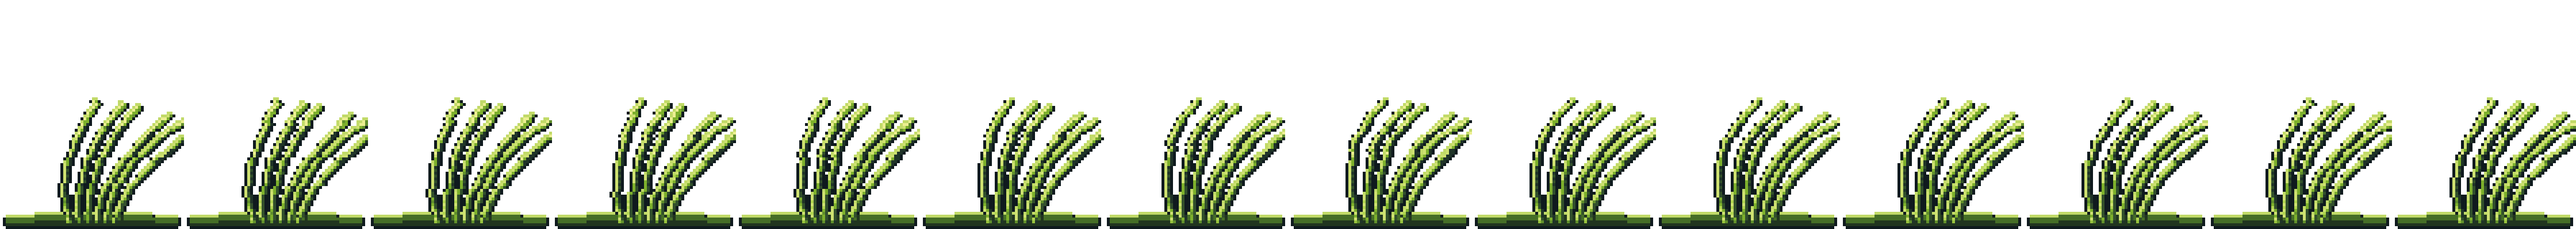
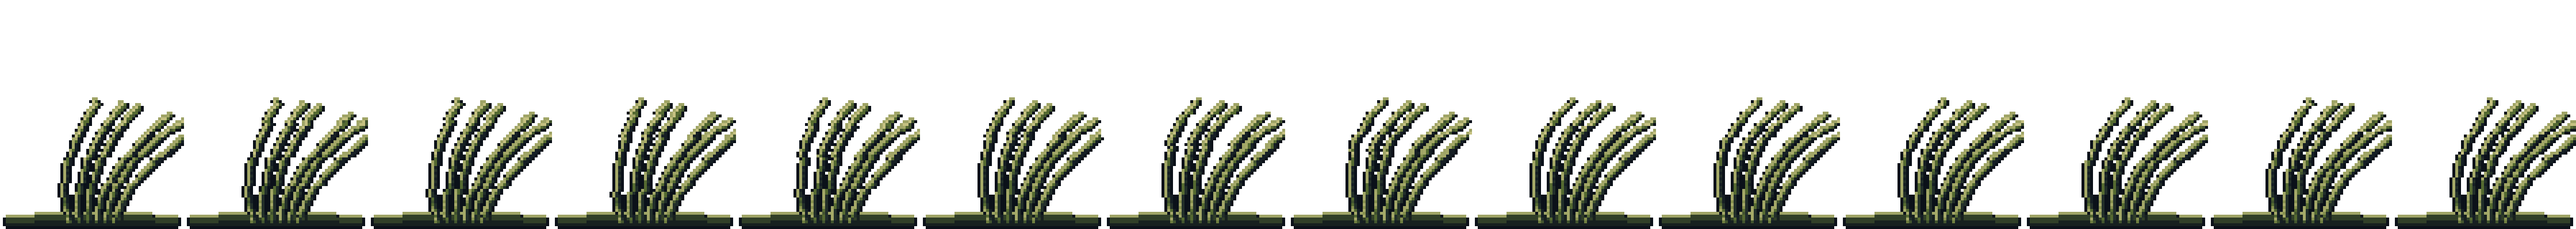
Make the reef cohere: surface attachment, colonies, depth slices
The environment read as clutter that didn't mesh. Four structural causes,
all now fixed.

Placement was an independent coin flip per column, which is a
statistically EVEN sprinkle — no clumps, no bare ground — and the eye
reads even distribution as clutter. Growth now forms colonies with bare
substrate between them, sized on a curve so most are small and a few are
large. A flat size roll made one grass bed swallow the frame.

Growth attached only to floors. Every solid cell with an exposed side is
now a face with an outward normal, and sprites are quarter-turned onto it
— coral out of a wall sideways, turf under an overhang. Quarter turns of
a pixel sprite are exact, no resampling, so the grid survives; that is
why normals snap to the four axes. Families declare which surfaces they
actually colonise, because a branching colony turned ninety degrees looks
like a fallen log, while fans and turf read correctly.

Everything rendered at one contrast, so the scene was a sticker collage.
The gameplay layer now has three depth slices: BACK loses contrast to the
water, MID is the subject, NEAR goes darker and unlit. Fish take slices
too — they were the loudest thing in frame — and big solitary hunters
mostly cruise the far water.

Species were picked independently at every position, interleaving every
hue into confetti. Flora is keyed to two muted families, tan structure
and olive growth, with rose fans as the only accent; salvage joins the
[…]

Changed region(s): [[0.0, 0.45, 1.0, 0.99]]

diff --git a/scuba-game/reef/index.html b/scuba-game/reef/index.html
@@ -175,7 +175,7 @@ const SPAWN_Y = spawnAvg*TILE - 3.2*PX_PER_M;
 let A;
 try{
   A = await loadAll('./assets', ['tile_rock','tile_sand',
-    'flora_kelp','flora_staghorn','flora_fan','flora_grass',
+    'flora_staghorn','flora_staghorn_lg','flora_soft','flora_kelp','flora_grass','flora_grass_lg','flora_fan',
     'fish_chromis','fish_anthias','fish_yellowtang','fish_raccoon','fish_manini',
     'fish_taape','fish_akule','fish_uhu','fish_omilu','fish_puhi','fish_whitetip','fish_ulua',
     'prop_crate','prop_drum','prop_hull','prop_debris',
@@ -232,58 +232,141 @@ const LAYERS = [
 ];
 const mixc = (a,b,t) => [a[0]+(b[0]-a[0])*t, a[1]+(b[1]-a[1])*t, a[2]+(b[2]-a[2])*t];
 
-// ---------------------------------------------------------------- scatter
-const FLORA = [
-  {a:A.flora_kelp,     w:0.30, minD:4,  maxD:24},
-  {a:A.flora_staghorn, w:0.28, minD:6,  maxD:26},
-  {a:A.flora_fan,      w:0.17, minD:8,  maxD:28},
-  {a:A.flora_grass,    w:0.25, minD:3,  maxD:25}
-];
-const BG_FLORA = FLORA.filter(f => f.a === A.flora_grass || f.a === A.flora_fan);
-const plants = [];
-for(let x=2;x<WT-2;x++){
-  if(R() > 0.44) continue;
-  const topArt = surfaceY[x]*TILE;
-  const d = depthAt(topArt);
-  const pool = FLORA.filter(f => d >= f.minD && d <= f.maxD);
-  if(!pool.length) continue;
-  let r = R()*pool.reduce((s,f)=>s+f.w,0), pick = pool[0];
-  for(const f of pool){ r -= f.w; if(r<=0){ pick=f; break; } }
-  plants.push({
-    a: pick.a, x: x*TILE + TILE/2 + (R()-0.5)*TILE,
-    y: topArt + 1,
-    phase: R()*Math.PI*2, rate: 0.55 + R()*0.5, flip: R()<0.5
-  });
+// ---------------------------------------------------------------- surfaces
+// Growth attaches to a SURFACE, not to a column of the heightmap. Every solid cell with an
+// exposed side is a face with an outward normal; sprites are quarter-turned onto it so
+// coral grows out of a wall sideways and sponges hang under an overhang. Placing only on
+// floors is what left the terrain reading as bare stepped platforms with a lawn on top.
+const FLOOR=0, WALL=1, CEIL=2;
+const faces = {[FLOOR]:[], [WALL]:[], [CEIL]:[]};
+for(let gy=0; gy<WH; gy++)for(let gx=0; gx<WT; gx++){
+  if(!solid[gy][gx]) continue;
+  const open=(x,y)=> x<0||x>=WT||y<0 ? false : (y>=WH ? false : !solid[y][x]);
+  if(open(gx,gy-1))   faces[FLOOR].push({x:gx*TILE+TILE/2, y:gy*TILE,          rot:0, gx, gy});
+  if(open(gx+1,gy))   faces[WALL ].push({x:(gx+1)*TILE,    y:gy*TILE+TILE/2,   rot:1, gx, gy});
+  if(open(gx,gy+1))   faces[CEIL ].push({x:gx*TILE+TILE/2, y:(gy+1)*TILE,      rot:2, gx, gy});
+  if(open(gx-1,gy))   faces[WALL ].push({x:gx*TILE,        y:gy*TILE+TILE/2,   rot:3, gx, gy});
 }
-plants.sort((p,q)=>p.y-q.y);
+// sort so neighbours in the array are neighbours in space — a colony is then a contiguous run
+faces[FLOOR].sort((a,b)=>a.x-b.x || a.y-b.y);
+faces[CEIL ].sort((a,b)=>a.x-b.x || a.y-b.y);
+faces[WALL ].sort((a,b)=>a.rot-b.rot || a.gx-b.gx || a.gy-b.gy);
 
-// flora on the background reef, and a few near silhouettes in the foreground
+// ---------------------------------------------------------------- scatter
+// Coral grows in COLONIES with bare substrate between them. An independent coin flip per
+// column — which this used to be — gives a statistically EVEN sprinkle: no clumps, no
+// gaps, and the eye reads even distribution as clutter. Patches also group colour into
+// masses instead of interleaving every hue at every position.
+// Families declare which surfaces they actually colonise: turf on the flat, fans and soft
+// coral out of walls, only small growth under overhangs.
+const FAMILIES = [
+  {name:'staghorn', members:[A.flora_staghorn, A.flora_staghorn_lg], w:0.30, on:[FLOOR],            minD:3, maxD:26},
+  {name:'grass',    members:[A.flora_grass, A.flora_grass_lg],       w:0.24, on:[FLOOR],            minD:1, maxD:24},
+  {name:'kelp',     members:[A.flora_kelp],                          w:0.14, on:[FLOOR],            minD:2, maxD:20},
+  {name:'soft',     members:[A.flora_soft],                          w:0.18, on:[FLOOR],            minD:4, maxD:24},
+  {name:'fan',      members:[A.flora_fan],                           w:0.14, on:[WALL,CEIL,FLOOR],  minD:6, maxD:28},
+  {name:'turf',     members:[A.flora_grass],                         w:0.14, on:[WALL,CEIL],        minD:2, maxD:28}
+];
+const pickWeighted = pool => {
+  let r = R()*pool.reduce((s,f)=>s+f.w,0);
+  for(const f of pool){ r -= f.w; if(r<=0) return f; }
+  return pool[pool.length-1];
+};
+
+// Depth slices inside the gameplay layer. Without these everything renders at one contrast
+// and the scene reads as a sticker collage — the "pops too much" problem. BACK sits behind
+// the play plane and loses contrast to the water; NEAR sits in front and goes darker.
+const BACK=0, MID=1, NEAR=2;
+const SLICE_FOG  = [0.46, 0, 0];
+const SLICE_DEPTH= [2,    0, 11];     // NEAR pushed deeper into the grade = darker, unlit
+const pickSlice = () => { const r=R(); return r<0.30 ? BACK : r<0.90 ? MID : NEAR; };
+
+const plants = [];
 {
-  const back = LAYERS[1];
-  for(let x=3;x<WT-3;x++){
-    if(R() > 0.26) continue;
-    const pick = BG_FLORA[(R()*BG_FLORA.length)|0];
-    const wx = x*TILE + TILE/2;
-    back.plants.push({a:pick.a, x:wx, y:back.ridge[Math.min(back.ridge.length-1,Math.floor(wx/RIDGE_STEP))]+1,
-                      phase:R()*Math.PI*2, rate:0.4+R()*0.4, flip:R()<0.5});
+  const colonies = 22;
+  for(let k=0;k<colonies;k++){
+    // most colonies are small; a few are large. A flat size roll made one grass bed
+    // swallow the frame.
+    const n = 2 + Math.round(Math.pow(R(),2.1) * 15);
+    const surf = R()<0.72 ? FLOOR : (R()<0.80 ? WALL : CEIL);
+    const list = faces[surf];
+    if(!list.length) continue;
+    const seed = (R()*list.length)|0;
+    const d = depthAt(list[seed].y);
+    const pool = FAMILIES.filter(f => f.on.includes(surf) && d >= f.minD && d <= f.maxD);
+    if(!pool.length) continue;
+    const fam = pickWeighted(pool);
+    const spread = 1 + Math.round(n*0.9);
+    for(let i=0;i<n;i++){
+      const f = list[Math.max(0, Math.min(list.length-1, seed + Math.round((R()+R()-1)*spread)))];
+      const a = fam.members[(R()*fam.members.length)|0];
+      // along-face jitter, and embedded into the substrate rather than balanced on it
+      const along = (R()-0.5)*TILE*0.9, sink = 2 + R()*3;
+      const dx = f.rot===0 ? along : f.rot===2 ? along : (f.rot===1 ? -sink : sink);
+      const dy = f.rot===1 || f.rot===3 ? along : (f.rot===0 ? sink : -sink);
+      plants.push({a, x:f.x+dx, y:f.y+dy, rot:f.rot, surf,
+                   z: surf===FLOOR ? pickSlice() : (R()<0.4 ? BACK : MID),
+                   phase:R()*Math.PI*2, rate:0.55+R()*0.5, flip:R()<0.5,
+                   shade: surf===FLOOR ? 3.5+R()*4.5 : 0});
+    }
   }
 }
-// Salvage on the bottom — the reason for the dive (GDD §4). Props sit on their `base`
-// anchor like flora, so the same placement rule works for both.
+plants.sort((p,q)=> p.z - q.z || p.y - q.y);
+
+const BG_FLORA = [A.flora_grass, A.flora_fan, A.flora_soft];
+{ // background reef gets its own sparse colonies
+  const back = LAYERS[1];
+  let xt = 2 + R()*6;
+  while(xt < WT-3){
+    xt += 3 + R()*8;
+    if(xt >= WT-3) break;
+    const a = BG_FLORA[(R()*BG_FLORA.length)|0];
+    const radT = 1 + R()*2.5, n = Math.round(2 + radT*2);
+    for(let i=0;i<n;i++){
+      const wx = (xt + ((R()+R()+R())/1.5-1)*radT)*TILE;
+      if(wx < 0 || wx > WT*TILE) continue;
+      back.plants.push({a, x:wx,
+        y: back.ridge[Math.max(0,Math.min(back.ridge.length-1,Math.floor(wx/RIDGE_STEP)))] + 2,
+        phase:R()*Math.PI*2, rate:0.4+R()*0.4, flip:R()<0.5});
+    }
+    xt += radT*1.8;
+  }
+}
+
+// Salvage clusters too — debris fields, not an even sprinkle of crates.
 const PROPS = [A.prop_crate, A.prop_drum, A.prop_hull, A.prop_debris];
 const salvage = [];
-for(let i=0;i<32;i++){
-  const x = 4*TILE + R()*(WT-8)*TILE;
-  salvage.push({a: PROPS[(R()*PROPS.length)|0], x, y: terrainTopArt(x) + 1, flip: R()<0.5});
+for(let k=0;k<7;k++){
+  const list = faces[FLOOR];
+  if(!list.length) break;
+  const seed = (R()*list.length)|0, n = 1 + Math.round(R()*3);
+  for(let i=0;i<n;i++){
+    const f = list[Math.max(0, Math.min(list.length-1, seed + Math.round((R()+R()-1)*4)))];
+    salvage.push({a: PROPS[(R()*PROPS.length)|0], x:f.x+(R()-0.5)*TILE, y:f.y+2+R()*2,
+                  flip: R()<0.5, shade: 4+R()*4});
+  }
 }
 salvage.sort((a,b)=>a.y-b.y);
 
 const fgPlants = [];
-for(let i=0;i<14;i++){
-  const pick = FLORA[(R()*FLORA.length)|0];
+for(let i=0;i<12;i++){
+  const fam = FAMILIES[(R()*FAMILIES.length)|0];
   const fx = R()*WT*TILE;
-  fgPlants.push({a:pick.a, x:fx, y:terrainTopArt(fx)+1,
+  fgPlants.push({a: fam.members[(R()*fam.members.length)|0], x:fx, y:terrainTopArt(fx)+2,
                  phase:R()*Math.PI*2, rate:0.5+R()*0.5, flip:R()<0.5});
+}
+
+// A sprite sitting exactly on the surface line reads as pasted on. An occlusion pool under
+// its base is most of what makes it look like it grew there.
+function contactShade(px, py, halfW, depth, alpha){
+  if(halfW <= 0) return;
+  ctx.save();
+  ctx.globalAlpha = alpha;
+  ctx.fillStyle = css(gradeColor([5,11,17], depth));
+  ctx.beginPath();
+  ctx.ellipse(px, py, halfW*ZOOM, Math.max(1.4, halfW*0.34*ZOOM), 0, 0, Math.PI*2);
+  ctx.fill();
+  ctx.restore();
 }
 
 // ---------------------------------------------------------------- sea life
@@ -313,7 +396,7 @@ for(const a of FISH_ASSETS){
     // Reef fish hold station over the structure. Intersect the species' true depth band
     // with the water actually above this reef; if they don't overlap, this species simply
     // isn't found at this depth and we skip it rather than teleporting it here.
-    const hoverLo = floorArt - 8*PX_PER_M, hoverHi = floorArt - 0.7*PX_PER_M;
+    const hoverLo = floorArt - (3 + R()*9)*PX_PER_M, hoverHi = floorArt - (0.5 + R()*3)*PX_PER_M;
     const lo2 = Math.max(lo, hoverLo, 0.8*PX_PER_M), hi2 = Math.min(hi, hoverHi);
     if(hi2 - lo2 < 8) continue;
     const fy = lo2 + R()*(hi2 - lo2);
@@ -326,10 +409,13 @@ for(const a of FISH_ASSETS){
         ox:(R()-0.5)*(tight?46:90), oy:(R()-0.5)*(tight?26:44),
         ph:R()*Math.PI*2, rate:0.8+R()*0.6});
       shoals.push({a, sp, x:fx, y:fy, dir, speed:base*(tight?0.85:1)+R()*6,
-                   members, wob:tight?2.2:5.0, phase:R()*Math.PI*2});
+                   members, wob:tight?2.2:5.0, phase:R()*Math.PI*2, z:pickSlice()});
     } else {
+      // big solitary hunters mostly cruise the far water — one at full contrast in the
+      // middle of frame is the single loudest thing in the scene
       loners.push({a, sp, x:fx, y:fy, dir, speed:base+R()*8,
-                   ph:R()*Math.PI*2, rate:0.6+R()*0.6, bobA:1.2+R()*2.6, bobR:0.35+R()*0.6});
+                   ph:R()*Math.PI*2, rate:0.6+R()*0.6, bobA:1.2+R()*2.6, bobR:0.35+R()*0.6,
+                   z: sp.cm > 90 ? (R()<0.75 ? BACK : MID) : pickSlice()});
     }
   }
 }
@@ -553,7 +639,8 @@ function frame(ts){
       const my = sh.y + m.oy + Math.cos(acc*m.rate*0.8 + m.ph)*sh.wob*0.7;
       const px = sx(mx), py = sy(my);
       if(px < -140 || px > vw+140 || py < -110 || py > vh+110) continue;
-      sh.a.draw(ctx, depthAt(my), 'swim', Math.floor(acc*11*m.rate + m.ph*3), px, py, ZOOM, {flip});
+      sh.a.draw(ctx, depthAt(my) + SLICE_DEPTH[sh.z], 'swim',
+        Math.floor(acc*11*m.rate + m.ph*3), px, py, ZOOM, {flip, fog:SLICE_FOG[sh.z]});
     }
   }
   for(const f of loners){
@@ -561,7 +648,8 @@ function frame(ts){
     const fy = f.y + Math.sin(acc*f.bobR + f.ph) * f.bobA;
     const px = sx(f.x), py = sy(fy);
     if(px < -180 || px > vw+180 || py < -140 || py > vh+140) continue;
-    f.a.draw(ctx, depthAt(fy), 'swim', Math.floor(acc*10*f.rate + f.ph*3), px, py, ZOOM, {flip: f.dir > 0});
+    f.a.draw(ctx, depthAt(fy) + SLICE_DEPTH[f.z], 'swim',
+      Math.floor(acc*10*f.rate + f.ph*3), px, py, ZOOM, {flip: f.dir > 0, fog:SLICE_FOG[f.z]});
   }
 
   // terrain — only the cells on screen
@@ -573,6 +661,29 @@ function frame(ts){
     set.drawTile(ctx, depthAt(y*TILE), tileIdx[y][x], sx(x*TILE), sy(y*TILE), ZOOM, 0, tileVar[y][x]);
   }
 
+  // --- flora behind the play plane: drawn first and hazed, so the mid plane reads as
+  // the subject instead of everything competing at one contrast ---
+  for(const p of plants){
+    if(p.z !== BACK) continue;
+    const px = sx(p.x), py = sy(p.y);
+    if(px < -140 || px > vw+140 || py < -260 || py > vh+120) continue;
+    p.a.draw(ctx, depthAt(p.y), 'sway', Math.floor(acc*9*p.rate + p.phase*4), px, py, ZOOM,
+             {anchor:'base', flip:p.flip, rot:p.rot, fog:SLICE_FOG[BACK]});
+  }
+
+  // contact occlusion for everything standing on the bottom, in one pass underneath
+  for(const p of salvage){
+    const px = sx(p.x), py = sy(p.y);
+    if(px < -140 || px > vw+140 || py < -80 || py > vh+80) continue;
+    contactShade(px, py, p.shade, depthAt(p.y), 0.5);
+  }
+  for(const p of plants){
+    if(p.z === BACK || !p.shade) continue;
+    const px = sx(p.x), py = sy(p.y);
+    if(px < -140 || px > vw+140 || py < -80 || py > vh+80) continue;
+    contactShade(px, py, p.shade, depthAt(p.y), 0.42);
+  }
+
   // salvage, resting on the bottom
   for(const p of salvage){
     const px = sx(p.x), py = sy(p.y);
@@ -580,12 +691,14 @@ function frame(ts){
     p.a.draw(ctx, depthAt(p.y), 'idle', 0, px, py, ZOOM, {anchor:'base', flip:p.flip});
   }
 
-  // flora, planted on its `base` anchor
+  // flora on the play plane and in front of it
   for(const p of plants){
+    if(p.z === BACK) continue;
     const px = sx(p.x), py = sy(p.y);
-    if(px < -140 || px > vw+140 || py < -260 || py > vh+80) continue;
-    p.a.draw(ctx, depthAt(p.y), 'sway', Math.floor(acc*9*p.rate + p.phase*4), px, py, ZOOM,
-             {anchor:'base', flip:p.flip});
+    if(px < -140 || px > vw+140 || py < -260 || py > vh+120) continue;
+    p.a.draw(ctx, depthAt(p.y) + SLICE_DEPTH[p.z], 'sway',
+             Math.floor(acc*9*p.rate + p.phase*4), px, py, ZOOM,
+             {anchor:'base', flip:p.flip, rot:p.rot});
   }
 
   // silt kicked off the bottom

diff --git a/scuba-game/reef/tideforge.js b/scuba-game/reef/tideforge.js
@@ -75,7 +75,14 @@ class Asset {
    * `anchor` names a manifest anchor ('base' plants flora on the seafloor); default
    * is the sprite's centre.
    */
-  draw(ctx, depth, clipName, frame, cx, cy, zoom, {flip=false, anchor=null, alpha=1, fog=0}={}){
+  /**
+   * `rot` is a quarter-turn count (0-3) applied about the anchor, so a sprite can attach
+   * along any surface normal — coral growing off a left-facing wall, sponges hanging under
+   * an overhang. Quarter turns of a pixel sprite are exact: no resampling, the grid
+   * survives intact. Any other angle would need filtering and would destroy it, which is
+   * why the placement code snaps surface normals to the four axes.
+   */
+  draw(ctx, depth, clipName, frame, cx, cy, zoom, {flip=false, anchor=null, alpha=1, fog=0, rot=0}={}){
     const clip = this.clip(clipName);
     const row  = clip ? clip.row : 0;
     const F    = Math.max(1, this.frameCount(clipName));
@@ -88,6 +95,7 @@ class Asset {
     if(alpha !== 1) ctx.globalAlpha = alpha;
     ctx.imageSmoothingEnabled = false;
     ctx.translate(Math.round(cx), Math.round(cy));
+    if(rot) ctx.rotate((rot & 3) * Math.PI / 2);
     if(flip) ctx.scale(-1,1);
     ctx.drawImage(this.graded(depth, fog),
       col*this.fw, row*this.fh, this.fw, this.fh,

diff --git a/tide-forge/index.html b/tide-forge/index.html
@@ -206,6 +206,12 @@ const BASE_PALETTES=[
   {name:'lime',ramp:['#23380a','#47701a','#7db02c','#a7d94e','#dcf59a']},
   {name:'sand',ramp:['#2b2117','#584533','#93765a','#c0a281','#e6d3b4']},
   {name:'basalt',ramp:['#0c1013','#1e262c','#3b474f','#5f6e78','#93a3ad']},
+  // Muted reef keys. A scene where every element is a different saturated hue reads as
+  // confetti; real reef is mostly tan and olive with a few colour accents, so these carry
+  // the mass and the saturated ramps above become accents used sparingly.
+  {name:'reefbrown',ramp:['#2a1d12','#4f3924','#7d5c3a','#a98457','#d8bb8d']},
+  {name:'olive',ramp:['#1a2110','#33401d','#556a31','#7e9450','#b6c68e']},
+  {name:'duskrose',ramp:['#2e1420','#54263a','#84455e','#b06f88','#dfaebe']},
 ];
 let PALETTES=BASE_PALETTES.map(p=>({name:p.name,ramp:p.ramp.slice()}));
 
